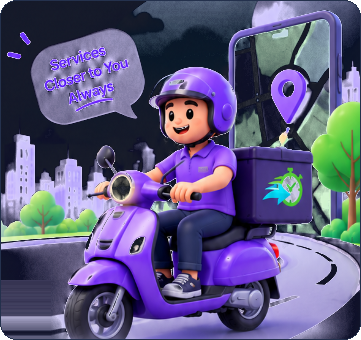
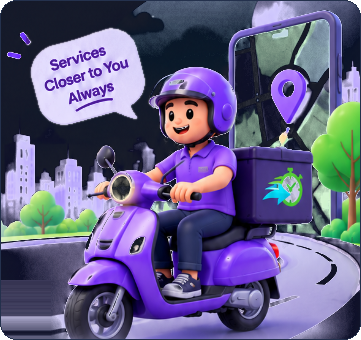
fix: enhance dark mode header artwork text contrast and clarity v1.6.8

Changed region(s): [[0.0609, 0.0588, 0.4266, 0.3824], [0.0609, 0.0882, 0.0914, 0.1471]]

diff --git a/mobile/serve_apk.js b/mobile/serve_apk.js
@@ -11,7 +11,7 @@ const server = http.createServer((req, res) => {
       res.writeHead(200, {
         'Content-Type': 'application/vnd.android.package-archive',
         'Content-Length': stat.size,
-        'Content-Disposition': 'attachment; filename=kwickly-v1.6.7.apk'
+        'Content-Disposition': 'attachment; filename=kwickly-v1.6.8.apk'
       });
       fs.createReadStream(apkPath).pipe(res);
     } else {
@@ -25,7 +25,7 @@ const server = http.createServer((req, res) => {
       res.writeHead(200, {
         'Content-Type': 'application/vnd.android.package-archive',
         'Content-Length': stat.size,
-        'Content-Disposition': 'attachment; filename=kwickly-universal-v1.6.7.apk'
+        'Content-Disposition': 'attachment; filename=kwickly-universal-v1.6.8.apk'
       });
       fs.createReadStream(uniPath).pipe(res);
     } else {
@@ -53,10 +53,10 @@ const server = http.createServer((req, res) => {
 </head>
 <body>
   <div class="card">
-    <div class="badge">v1.6.7 (Build 68) Latest Release</div><br/>
-    <div class="success-badge">✓ MPIN Screen Footer Elevated & Zero Back Button Overlap</div>
+    <div class="badge">v1.6.8 (Build 69) Latest Release</div><br/>
+    <div class="success-badge">✓ Dark Mode Header Artwork Text Crisp & High Contrast</div>
     <h1>Kwickly Mobile</h1>
-    <p>Compact MPIN enter screen layout with footer grounded safely above mobile back and navigation buttons in both light and dark themes.</p>
+    <p>Enhanced dark mode header illustrations for Login and Enter 4-Digit MPIN screens: crystal-clear high contrast text on both speech bubbles and script typography.</p>
     <a class="btn-main" href="/kwickly.apk">Download Release APK (ARM64)</a>
     <a class="btn-secondary" href="/kwickly-universal.apk">Download Universal APK</a>
   </div>
